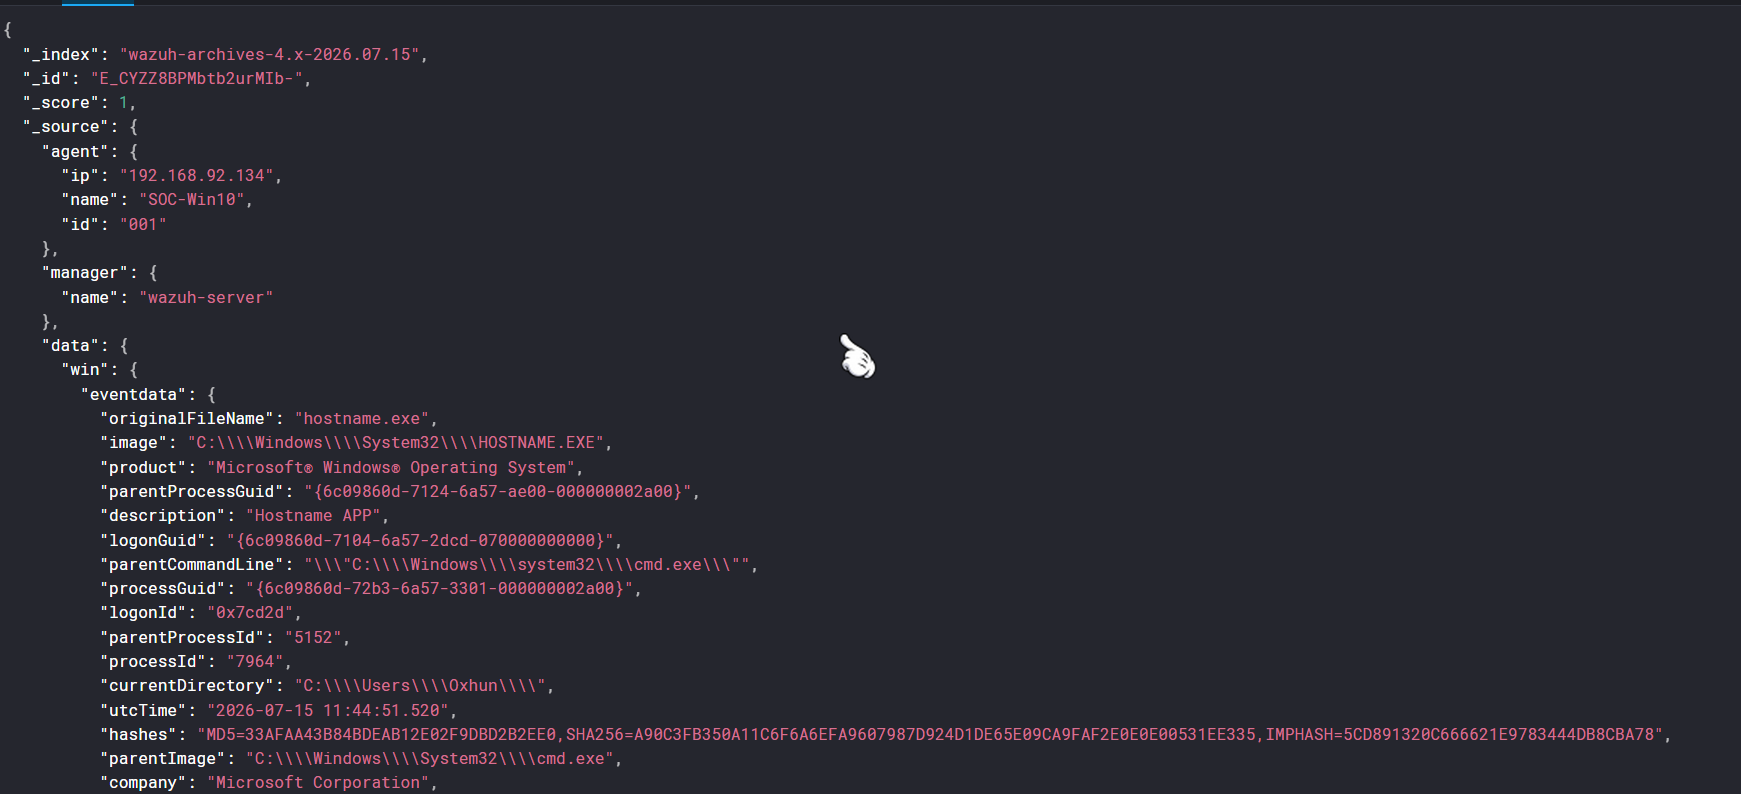
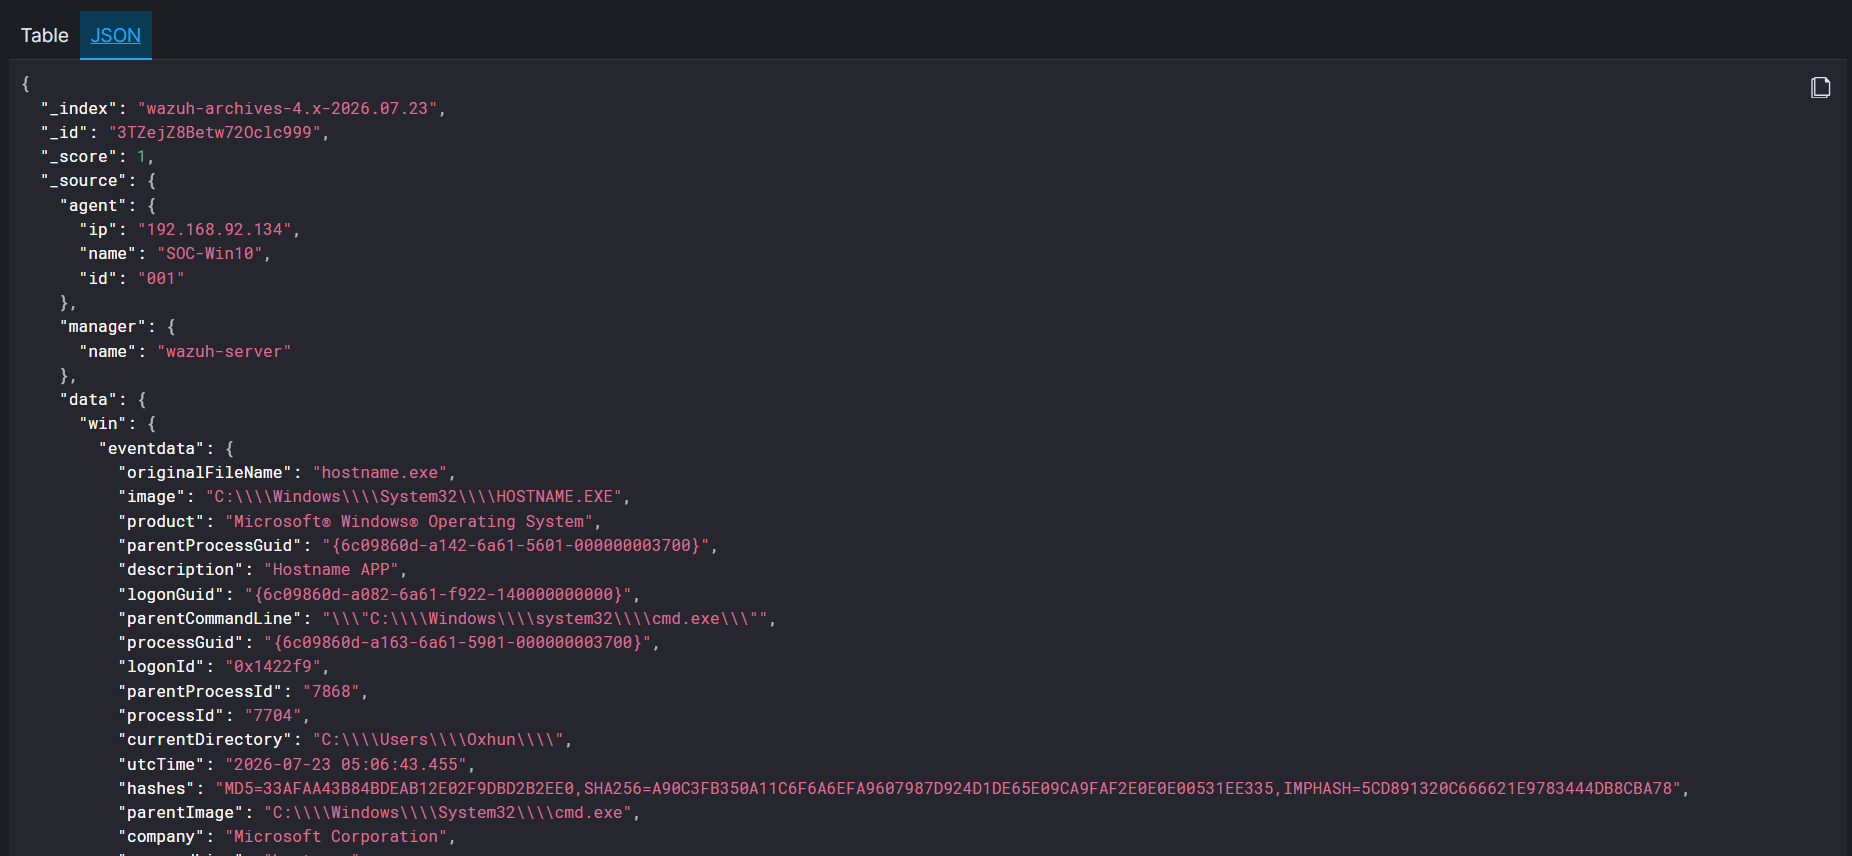
Completed hostname investigation

Changed region(s): [[0.0, 0.0, 0.9615, 1.0], [0.4652, 0.4232, 0.5273, 0.4836], [0.9615, 0.0907, 0.9925, 0.1209]]

diff --git a/investigations/02-Investigation-Hostname.md b/investigations/02-Investigation-Hostname.md
@@ -35,3 +35,200 @@ The following reference documents provide additional information related to this
 The objective of this investigation is to analyze the execution of the Windows **hostname** command using the telemetry collected by Sysmon and Wazuh.
 
 The investigation focuses on verifying the process execution, identifying the executing user and parent process, and determining whether the activity is legitimate or requires further investigation.
+
+# Lab Environment
+
+| Component | Value |
+|----------|-------|
+| SIEM | Wazuh |
+| Endpoint | Windows 10 |
+| Agent Name | SOC-Win10 |
+| Agent ID | 001 |
+| Agent IP | 192.168.92.134 |
+| Manager | wazuh-server |
+| Log Source | Microsoft-Windows-Sysmon |
+
+---
+
+# Lab Execution
+
+The `hostname` command was executed on the Windows 10 endpoint to generate a Sysmon Process Create (Event ID 1), allowing the activity to be collected and analyzed in Wazuh.
+
+Command Executed:
+
+```cmd
+hostname
+```
+
+Observed Output:
+
+```text
+DESKTOP-8GB0J2A
+```
+
+> 📸 **Screenshot Required**
+>
+> **Title:** Hostname Command Execution
+>
+> **File:** `screenshots/investigations/hostname/01-command.png`
+
+---
+
+# Event Information
+
+> **Note**
+>
+> The execution of the Windows `hostname` command does not generate a Wazuh alert because no detection rule is triggered for this activity.
+>
+> The event is collected by Sysmon (Event ID 1) and stored in the **wazuh-archives** index, where it can be investigated using Wazuh Discover.
+
+| Property | Value |
+|----------|-------|
+| Event Type | Process Create |
+| Event ID | 1 |
+| Severity | Informational |
+| Process | hostname.exe |
+| User | DESKTOP-8GB0J2A\Oxhun |
+| Computer | DESKTOP-8GB0J2A |
+| Event Time (UTC) | 2026-07-23 05:06:43.455 |
+
+> 📸 **Screenshot Required**
+>
+> **Title:** Hostname Event in Wazuh Discover
+>
+> **Save As:** `screenshots/investigations/hostname/02-wazuh-event.png`
+
+---
+
+# Event Summary
+
+The event indicates that the Windows **hostname.exe** process was executed on the monitored endpoint.
+
+The process was launched from **Command Prompt (cmd.exe)** by the logged-on user **DESKTOP-8GB0J2A\Oxhun**.
+
+The executable was started from the default Windows System32 directory, and Sysmon successfully recorded the activity as **Event ID 1 (Process Create)**. The event was indexed in the **wazuh-archives** index for threat hunting and investigation purposes.
+
+---
+
+# Event Analysis
+
+| Field | Value |
+|--------|-------|
+| Image | `C:\Windows\System32\HOSTNAME.EXE` |
+| Original File Name | `hostname.exe` |
+| Command Line | `hostname` |
+| Parent Process | `C:\Windows\System32\cmd.exe` |
+| User | `DESKTOP-8GB0J2A\Oxhun` |
+| Process ID | `7704` |
+| Parent Process ID | `7868` |
+| Current Directory | `C:\Users\Oxhun\` |
+| Integrity Level | Medium |
+| Company | Microsoft Corporation |
+| Event Time | 2026-07-23 05:06:43.455 UTC |
+
+The event confirms that the legitimate Windows **hostname.exe** binary was executed from the trusted **System32** directory. The parent process (`cmd.exe`) and command line are consistent with normal interactive command execution, and no suspicious arguments or execution paths were observed.
+
+> 📸 **Screenshot Required**
+>
+> **Title:** Hostname Event Details
+>
+> **Save As:** `screenshots/investigations/hostname/03-event-details.png`
+
+---
+
+# Timeline
+
+| Time (UTC) | Activity |
+|------------|----------|
+| 2026-07-23 05:06:43.455 | User executed `hostname` |
+| 2026-07-23 05:06:43.455 | Windows created the process |
+| 2026-07-23 05:06:43.463 | Sysmon generated Event ID 1 |
+| 2026-07-23 05:06:42.702 | Wazuh received and indexed the event into `wazuh-archives` |
+
+---
+
+# 5W Analysis
+
+| Question | Analysis |
+|----------|----------|
+| **Who** | DESKTOP-8GB0J2A\Oxhun executed the command. |
+| **What** | The Windows `hostname.exe` process was created. |
+| **When** | 2026-07-23 05:06:43 UTC. |
+| **Where** | Windows endpoint **SOC-Win10**. |
+| **Why** | To display the local computer hostname. |
+
+---
+
+# MITRE ATT&CK Mapping
+
+| Tactic | Technique | ID |
+|---------|-----------|----|
+| Discovery | System Information Discovery | T1082 |
+
+---
+
+# Investigation Findings
+
+The investigation confirmed the following:
+
+- The process executed successfully.
+- The executable is the legitimate Microsoft Windows binary.
+- The executable path is the trusted Windows System32 directory.
+- The parent process (`cmd.exe`) is expected.
+- The command line contains only `hostname`.
+- The activity was performed by the logged-on user.
+- The event exists in the **wazuh-archives** index.
+- No detection rule was triggered; therefore, no event was generated in the **wazuh-alerts** index.
+- No suspicious indicators were identified.
+
+---
+
+# Final Verdict
+
+| Property | Result |
+|----------|--------|
+| Classification | Benign Activity |
+| Severity | Informational |
+| Risk | Low |
+| Escalation Required | No |
+| Investigation Status | Closed |
+
+---
+
+# Analyst Notes
+
+The execution of **hostname.exe** is a common administrative and diagnostic activity used to identify the local computer name.
+
+Although the command is mapped to **MITRE ATT&CK T1082 (System Information Discovery)**, the observed activity appears legitimate because:
+
+- The executable is the original Microsoft binary.
+- It was executed from the trusted System32 directory.
+- The parent process is Command Prompt.
+- The command contains no suspicious arguments.
+- No suspicious behavior was observed before or after the process execution.
+
+This event is recorded by Sysmon and indexed in the **wazuh-archives** index. Since no Wazuh detection rule matches this activity, it does not generate an alert in the **wazuh-alerts** index.
+
+---
+
+# Conclusion
+
+The event was investigated and determined to be **Benign**.
+
+The investigation confirmed the normal execution of the Windows **hostname** command. The process was launched by the logged-on user from the legitimate Windows System32 directory, and no evidence of malicious activity, privilege escalation, or suspicious process behavior was identified.
+
+The event was successfully collected by Sysmon and stored in the **wazuh-archives** index for threat hunting and forensic analysis.
+
+---
+
+# Next Investigation
+
+**Investigation-03-Systeminfo.md**
+
+The next investigation analyzes the execution of the Windows `systeminfo` command and the corresponding Sysmon Event ID 1 generated by Wazuh.
+
+# Document Revision History
+
+| Version | Date | Author | Description |
+|---------|------|--------|-------------|
+| 1.0 | July 2026 | Rajeev Kumar | Initial release of the Hostname investigation. |

diff --git a/investigations/01-Investigation-Whoami.md b/investigations/01-Investigation-Whoami.md
@@ -74,11 +74,11 @@ desktop-8gb0j2a\oxhun
 
 ---
 
-# Alert Information
+# Event Information
 
 | Property | Value |
 |----------|-------|
-| Alert Type | Process Create |
+| Event Type | Process Create |
 | Event ID | 1 |
 | Severity | Informational |
 | Process | whoami.exe |
@@ -100,7 +100,7 @@ The alert indicates that the Windows **whoami.exe** process was executed on the 
 
 The process was launched from **Command Prompt (cmd.exe)** by the logged-on user **DESKTOP-8GB0J2A\Oxhun**.
 
-The executable was started from the default Windows System32 directory, and Sysmon successfully recorded the activity as **Event ID 1 (Process Create)**.
+The executable was started from the default Windows System32 directory, and Sysmon successfully recorded the activity as **Event ID 1 (Process Create)**. The event was indexed in the **wazuh-archives** index for threat hunting and investigation purposes.
 
 ---
 
@@ -119,7 +119,7 @@ The executable was started from the default Windows System32 directory, and Sysm
 | Company | Microsoft Corporation |
 | Event Time | 2026-07-15 10:47:37.594 UTC |
 
-The event confirms that the process was executed successfully without any unusual command-line arguments or suspicious execution path.
+The event confirms that the legitimate Windows **whoami.exe** binary was executed from the trusted **System32** directory. The parent process (`cmd.exe`) and command line are consistent with normal interactive command execution, and no suspicious arguments or execution paths were observed.
 
 > 📸 **Screenshot Required**
 >
@@ -136,7 +136,7 @@ The event confirms that the process was executed successfully without any unusua
 | 2026-07-15 10:47:37.594 | User executed `whoami` |
 | 2026-07-15 10:47:37.594 | Windows created the process |
 | 2026-07-15 10:47:37.611 | Sysmon generated Event ID 1 |
-| 2026-07-15 10:47:38.584 | Wazuh received and indexed the event |
+| 2026-07-15 10:47:38.584 | Wazuh received and indexed the event into `wazuh-archives` |
 
 ---
 
@@ -165,10 +165,13 @@ The event confirms that the process was executed successfully without any unusua
 The investigation confirmed the following:
 
 - The process executed successfully.
-- The executable path is the legitimate Windows System32 directory.
+- The executable is the legitimate Microsoft Windows binary.
+- The executable path is the trusted Windows System32 directory.
 - The parent process (`cmd.exe`) is expected.
 - The command line contains only `whoami`.
 - The activity was performed by the logged-on user.
+- The event exists in the **wazuh-archives** index.
+- No detection rule was triggered; therefore, no event was generated in the **wazuh-alerts** index.
 - No suspicious indicators were identified.
 
 ---
@@ -196,6 +199,9 @@ Although the command is mapped to **MITRE ATT&CK T1033 (Discovery)**, the observ
 - The parent process is Command Prompt.
 - No suspicious behavior was observed before or after the process execution.
 
+This event is recorded by Sysmon and indexed in the **wazuh-archives** index. Since no Wazuh detection rule matches this activity, it does not generate an alert in the **wazuh-alerts** index.
+
+
 ---
 
 # Conclusion
@@ -203,6 +209,8 @@ Although the command is mapped to **MITRE ATT&CK T1033 (Discovery)**, the observ
 The alert was investigated and determined to be **Benign**.
 
 The event represents the normal execution of the Windows **whoami** command. No evidence of malicious activity, privilege escalation, or suspicious process behavior was identified during the investigation.
+
+The event was successfully collected by Sysmon and stored in the **wazuh-archives** index for threat hunting and forensic analysis.
 
 ---
 

diff --git a/commands/Wazuh-Search-Queries.md b/commands/Wazuh-Search-Queries.md
@@ -19,3 +19,18 @@ The following Wazuh search queries are commonly used by a **SOC L1 Analyst** to 
 | Same User Activity | `data.win.eventdata.user:<Username>` | Sysmon Event ID 1 | Checks what other processes were executed by the same user. |
 | Same Endpoint Activity | `agent.name:<Agent_Name>` | Sysmon Event ID 1 | Reviews other events generated by the same endpoint. |
 | Same Parent Process | `data.win.eventdata.parentProcessId:<Parent_Process_ID>` | Sysmon Event ID 1 | Finds other child processes created by the same parent process. |
+
+---
+
+## Investigation Hostname
+
+The following Wazuh search queries are commonly used by a **SOC L1 Analyst** to investigate the execution of the Windows `hostname` command.
+
+| Investigation | Search Query | Event ID | Purpose |
+|---------------|--------------|----------|---------|
+| Hostname (Primary) | `data.win.eventdata.originalFileName:"hostname.exe"` | Sysmon Event ID 1 | Finds all executions of `hostname.exe`. |
+| Hostname (Alternative) | `data.win.eventdata.commandLine:"hostname"` | Sysmon Event ID 1 | Finds events where the command line contains `hostname`. |
+| Process Create Events | `data.win.system.eventID:1` | Sysmon Event ID 1 | Displays all Sysmon Process Create events for timeline analysis. |
+| Same User Activity | `data.win.eventdata.user:<Username>` | Sysmon Event ID 1 | Checks what other processes were executed by the same user. |
+| Same Endpoint Activity | `agent.name:<Agent_Name>` | Sysmon Event ID 1 | Reviews other events generated by the same endpoint. |
+| Same Parent Process | `data.win.eventdata.parentProcessId:<Parent_Process_ID>` | Sysmon Event ID 1 | Finds other child processes created by the same parent process. |

diff --git a/commands/Windows-Command-Reference.md.md b/commands/Windows-Command-Reference.md.md
@@ -11,3 +11,11 @@ Each command includes a brief description of its purpose, the investigation cate
 | Command | Purpose | Category | Investigation |
 |----------|---------|----------|---------------|
 | `whoami` | Displays the currently logged-on user account. | User Enumeration | Investigation-01-Whoami.md |
+
+---
+
+## Investigation Hostname
+
+| Command | Purpose | Category | Investigation |
+|----------|---------|----------|---------------|
+| `hostname` | Displays the name of the local computer (hostname). | Host Enumeration | Investigation-02-Hostname.md |